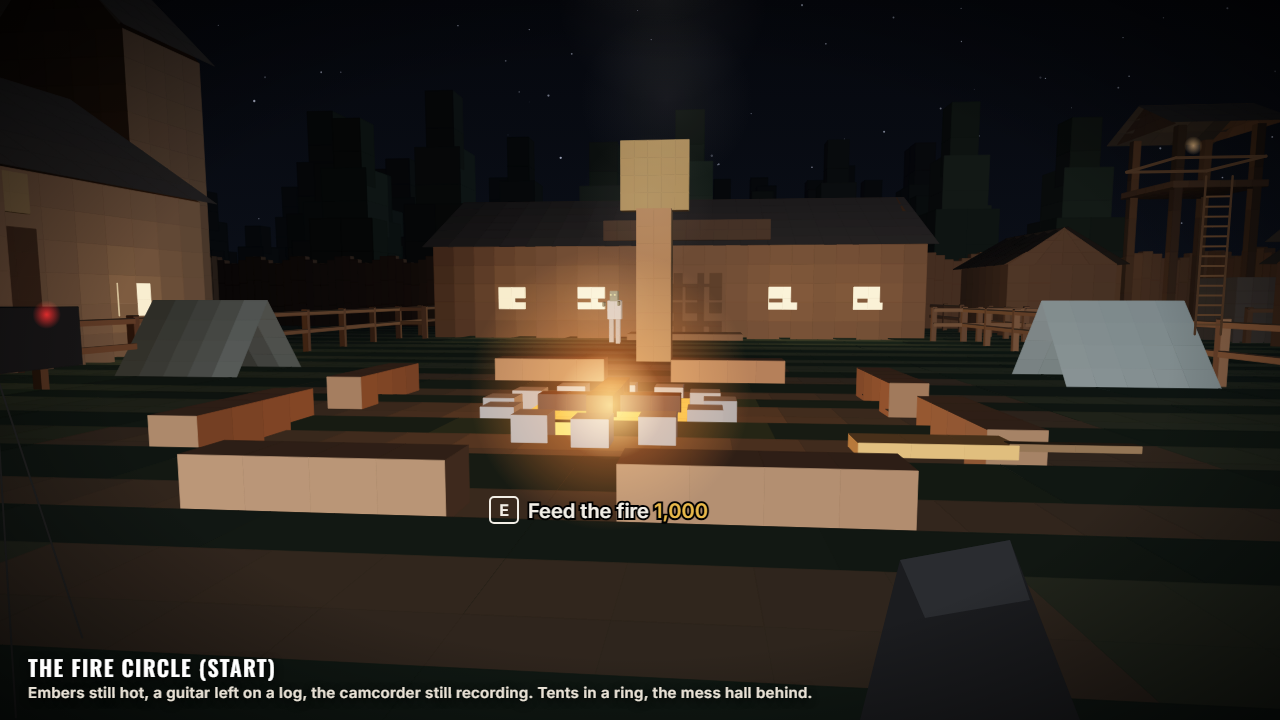
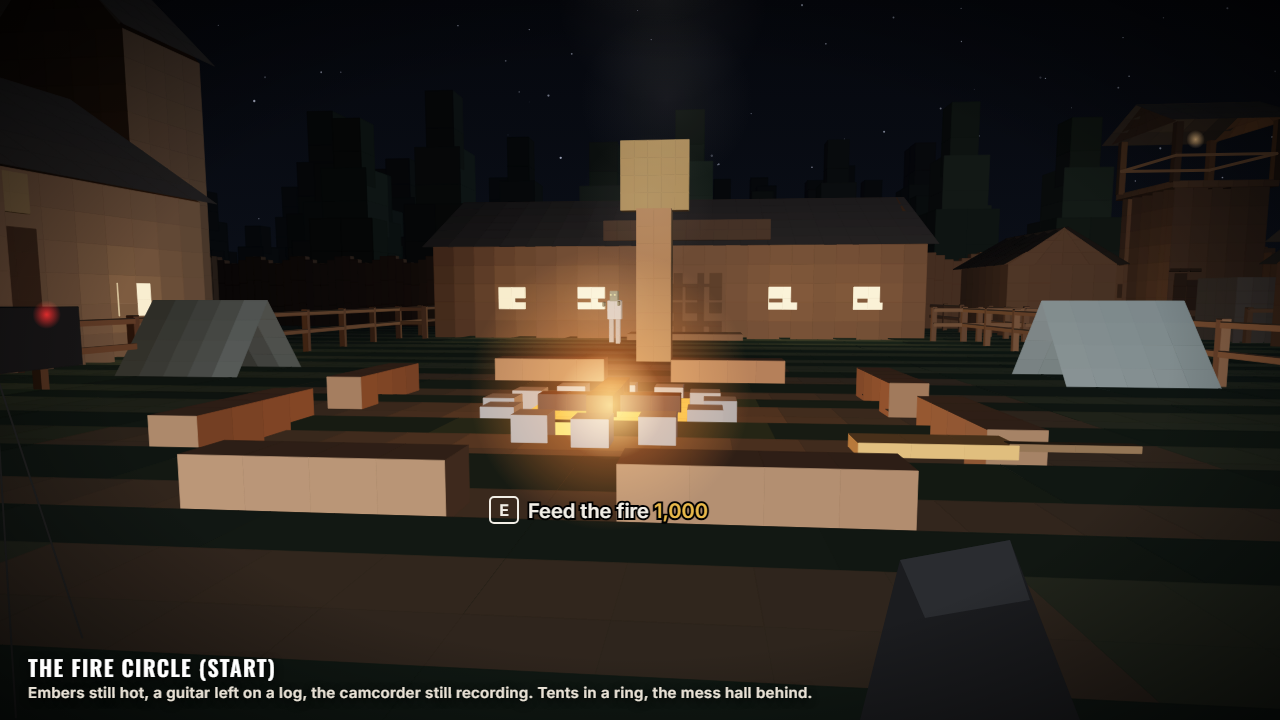
Camp Morrow: enclosed watchtower with stairs and a zombie door
The tower now has stairs inside and a barricaded ground-floor door, and
no ammo at the top. The crossbow wall buy moves to the Leader's cabin.

Changed region(s): [[0.875, 0.1833, 1.0, 0.4278]]

diff --git a/design/campsite.html b/design/campsite.html
@@ -31,7 +31,7 @@ let seed = 11;
 const rnd = () => ((seed = (seed * 16807) % 2147483647) / 2147483647);
 
 // Gaps in the palisade (barricades), as [side, from, to].
-const GAPS = { gate: ['s', 21, 27], woodpile: ['s', 30, 33], sw: ['s', 5, 8], west: ['w', -20, -17], kitchen: ['n', 29, 31], north: ['n', 41.5, 44], jetty: ['e', -19, -16], beach: ['e', -6, -3] };
+const GAPS = { gate: ['s', 21, 27], woodpile: ['s', 30, 33], sw: ['s', 5, 8], west: ['w', -20, -17], kitchen: ['n', 29, 31], north: ['n', 41.5, 44], jetty: ['e', -19, -16], beach: ['e', -6, -3], tower: ['e', -41.2, -39.4] };
 
 function robed(sc, x, y, z, face = 0, lean = 0.2) {
   const shirt = PAL.shirt, pants = PAL.pants;
@@ -195,15 +195,22 @@ function cabins(sc, o = {}) {
 function compound(sc, o = {}) {
   cabin(sc, 37, -41, 41, -36, 2.8, o.lit ? [[41, -38.5, 'e']] : null, { rise: 1.4, alongX: false });
   box(sc, 43, 0, -34.5, 46, 2.2, -32.6, '#3e3a34'); // generator shed
-  // Watchtower: 4 legs, platform at 6 m, rail, small roof, ladder.
-  for (const [x, z] of [[44.5, -41.5], [47.5, -41.5], [44.5, -38.5], [47.5, -38.5]]) box(sc, x - 0.15, 0, z - 0.15, x + 0.15, o.onTop ? 6 : 8.5, z + 0.15, LOG_DARK, { sub: 2 });
-  box(sc, 44.2, 6, -41.8, 47.8, 6.25, -38.2, '#5a3e28', { sub: 0.6 });
-  for (const [a, b] of [[[44.3, -38.3], [47.7, -38.3]], [[44.3, -41.7], [47.7, -41.7]], [[44.3, -41.7], [44.3, -38.3]], [[47.7, -41.7], [47.7, -38.3]]])
-    line3(sc, V(a[0], 7.2, a[1]), V(b[0], 7.2, b[1]), '#4a3322', 3);
-  if (!o.onTop) gable(sc, 44, -42, 48, -38, 8.5, 1.2, '#2a2622');
-  for (let y = 0.4; y < 6; y += 0.4) line3(sc, V(45.4, y, -38.15), V(46.4, y, -38.15), '#5a3e28', 2);
-  line3(sc, V(45.4, 0, -38.15), V(45.4, 6.4, -38.15), '#4a3322', 2.5); line3(sc, V(46.4, 0, -38.15), V(46.4, 6.4, -38.15), '#4a3322', 2.5);
-  if (o.lit) { light(sc, V(46, 7.5, -40), LAMP, 1.2, 4); glow(sc, V(46, 8, -40), LAMP, 0.4, 0.8); }
+  // Watchtower: a log tower with stairs inside. Its ground-floor door (east, outside the palisade) is a barricade.
+  box(sc, 44.4, 0, -42, 44.8, 6, -38.4, LOG, { sub: 0.8 });
+  box(sc, 44.4, 0, -42, 48, 6, -41.6, LOG, { sub: 0.8 });
+  box(sc, 44.4, 0, -38.8, 48, 6, -38.4, LOG, { sub: 0.8 });
+  box(sc, 47.6, 0, -41.6, 48, 6, -41.2, LOG, { sub: 0.8 }); box(sc, 47.6, 0, -39.4, 48, 6, -38.8, LOG, { sub: 0.8 });
+  box(sc, 47.6, 2.9, -41.2, 48, 6, -39.4, LOG, { sub: 0.8 });
+  box(sc, 44.4, 2.6, -38.4, 45.6, 2.7, -38.35, '#2a1d14'); // the players' door from the compound
+  box(sc, 44.6, 0, -38.38, 45.6, 2.5, -38.36, '#2a1d14');
+  box(sc, 44.2, 6, -42.2, 48.2, 6.25, -38.2, '#5a3e28', { sub: 0.6 });
+  box(sc, 45.1, 6.24, -39.7, 46.1, 6.26, -38.7, '#0a0806'); // stair hatch
+  if (o.onTop) { robed(sc, 45.6, 5.0, -39.2, Math.PI / 2, 0.1); light(sc, V(45.6, 6.9, -39.2), MOON, 1, 2); }
+  for (const [x, z] of [[44.3, -42.1], [48.1, -42.1], [44.3, -38.3], [48.1, -38.3]]) box(sc, x - 0.12, 6.25, z - 0.12, x + 0.12, o.onTop ? 7.3 : 8.6, z + 0.12, LOG_DARK, { sub: 2 });
+  for (const [a, b] of [[[44.3, -38.3], [48.1, -38.3]], [[44.3, -42.1], [48.1, -42.1]], [[44.3, -42.1], [44.3, -38.3]], [[48.1, -42.1], [48.1, -38.3]]])
+    line3(sc, V(a[0], 7.3, a[1]), V(b[0], 7.3, b[1]), '#4a3322', 3);
+  if (!o.onTop) gable(sc, 44, -42.4, 48.4, -38, 8.6, 1.2, '#2a2622');
+  if (o.lit) { light(sc, V(46.2, 8, -40.2), LAMP, 1.2, 4); glow(sc, V(46.2, 8.3, -40.2), LAMP, 0.4, 0.8); }
 }
 function fences(sc) {
   // Split-rail fences between zones, with gate gaps (the doors).
@@ -213,10 +220,10 @@ function fences(sc) {
   fence(sc, 36, -32, 36, -35); fence(sc, 36, -38, 36, -42);
   fence(sc, 14, -32, 15, -32); fence(sc, 33, -32, 36, -32);
 }
-function festoons(sc) {
+function festoons(sc, skipTower) {
   // Power on: strings of warm bulbs over every zone.
   const runs = [[[15, 3.2, -32], [24, 5, -16]], [[33, 3.2, -32], [24, 5, -16]], [[24, 5, -16], [14, 3, -4]], [[24, 5, -16], [34, 3, -4]], [[6, 3, -6], [11, 3.5, -12]], [[38, 2.8, -4], [44, 2.8, -26]], [[37, 2.8, -36], [44, 6, -38]]];
-  for (const [a, b] of runs) {
+  for (const [a, b] of skipTower ? runs.slice(0, -1) : runs) {
     const A = V(...a), B = V(...b), n = 8;
     for (let i = 0; i < n; i++) {
       const p = lerp3(A, B, i / n), q = lerp3(A, B, (i + 1) / n);
@@ -270,7 +277,7 @@ function camp(sc, o = {}) {
   cabins(sc, { lit: true }); compound(sc, { lit: !o.onTop, onTop: o.onTop }); lake(sc); road(sc, o);
   // Woodpile in the woodpile gap.
   for (let i = 0; i < 4; i++) box(sc, 30.2, i * 0.3, -1.6 + i * 0.1, 32.8, i * 0.3 + 0.3, -0.5, '#5a3e28', { sub: 0.6 });
-  if (o.power) festoons(sc);
+  if (o.power) festoons(sc, o.onTop);
   // Moon, low in the east over the lake.
   light(sc, V(120, 60, -40), MOON, o.moon ?? 1.4, 200);
   if (o.forest !== false) forest(sc, o.forestOpts ?? {});
@@ -368,8 +375,9 @@ const views = {
     camp(sc, { power: true, onTop: true, forestOpts: { n: 160 } });
     for (const [x, z, f] of [[38, -28, 0.8], [40, -24.5, 0.8], [41.5, -27, 0.6], [44, -30, 1], [30, -20, 0.5], [27.5, -21.5, 0.4], [20, -12, 0.2], [36.5, -21, 0.7]]) robed(sc, x, 0, z, f, 0.25);
     player(sc, 25, 0, -18.5, 1, '#3a6ea5');
-    const cam = camera(V(45.5, 7.7, -39.2), V(28, 0, -15), 760, W, H, 1);
-    return render(sc, cam, crossbowModel() + prompt('Hunting crossbow', '1,500') + vignette(W, H, 0.7)) + caption('The watchtower', 'Six metres up, the whole camp below. One ladder, one at a time.');
+    const cam = camera(V(47.4, 7.8, -41.4), V(30, 0.5, -18), 700, W, H, 1);
+    const ammo = `<g font-family="Oswald" font-weight="600" text-anchor="end" style="paint-order:stroke" stroke="#000" stroke-width="4"><text x="1240" y="660" font-size="44" fill="#f2eee6">4 <tspan font-size="26" fill="#ff5a3a">/ 0</tspan></text><text x="1240" y="690" font-family="Inter" font-size="14" fill="#ff5a3a" stroke-width="3">No ammo up here</text></g>`;
+    return render(sc, cam, gunModel() + ammo + vignette(W, H, 0.7)) + caption('The watchtower', 'The whole camp below, but no ammo up here. Zombies broke the door at the bottom and are on the stairs.');
   },
 
   plan() {
@@ -389,7 +397,7 @@ const views = {
       g += `<rect x="${X(x0)}" y="${Y(z0)}" width="${(x1 - x0) * s}" height="${(z1 - z0) * s}" fill="${c}" fill-opacity=".55"/>`;
     }
     // Buildings.
-    const bld = [[15, -41.6, 33, -33, 'Mess hall'], [3, -26, 11, -14, 'Chapel'], [5, -29, 9, -26, ''], [38, -8, 44, -4, 'Cabin 3'], [38, -16, 44, -12, 'Cabin 2'], [38, -24, 44, -20, 'Cabin 1'], [43, -31, 47.4, -27, 'Boathouse'], [37, -41, 41, -36, ''], [43, -34.5, 46, -32.6, ''], [44.2, -41.8, 47.8, -38.2, '']];
+    const bld = [[15, -41.6, 33, -33, 'Mess hall'], [3, -26, 11, -14, 'Chapel'], [5, -29, 9, -26, ''], [38, -8, 44, -4, 'Cabin 3'], [38, -16, 44, -12, 'Cabin 2'], [38, -24, 44, -20, 'Cabin 1'], [43, -31, 47.4, -27, 'Boathouse'], [37, -41, 41, -36, ''], [43, -34.5, 46, -32.6, ''], [44.4, -42, 48, -38.4, 'Stairs']];
     for (const [x0, z0, x1, z1, n] of bld) g += `<rect x="${X(x0)}" y="${Y(z0)}" width="${(x1 - x0) * s}" height="${(z1 - z0) * s}" fill="#2a2016" stroke="#c8a878" stroke-width="1.5"/>` + (n ? `<text x="${X((x0 + x1) / 2)}" y="${Y((z0 + z1) / 2) + 4}" font-family="Inter" font-size="11" font-weight="600" fill="#e9dcc4" text-anchor="middle">${n}</text>` : '');
     // Palisade with gaps.
     const pal = (x0, z0, x1, z1) => `<line x1="${X(x0)}" y1="${Y(z0)}" x2="${X(x1)}" y2="${Y(z1)}" stroke="#8a6a44" stroke-width="7"/>`;
@@ -427,9 +435,9 @@ const views = {
     g += icon(5, -18, '#4ac0ff', 'Tough Juice', '');
     g += icon(7, -15, '#d0b060', 'Altar', '(secret)');
     g += icon(39, -10, '#e8b84a', 'Barnburner', '1200');
-    g += icon(38, -38.5, '#4ac0ff', 'Quick Hands', '', 'start');
+    g += icon(37.6, -37, '#4ac0ff', 'Quick Hands', '', 'start');
     g += icon(44.5, -33.5, '#ffe060', 'Power', '', 'start');
-    g += icon(46, -40, '#e8b84a', 'Crossbow', '1500', 'end');
+    g += icon(37.6, -40, '#e8b84a', 'Crossbow', '1500', 'start');
     // Zone letters.
     for (const [k, name, cost, x0, z0, x1, z1] of zones) {
       const cx = k === 'A' ? 19 : k === 'C' ? 7 : k === 'D' ? 41 : (x0 + x1) / 2;
@@ -439,7 +447,7 @@ const views = {
     // Zombie routes: arrows from the forest to each barricade.
     const arrow = (x0, z0, x1, z1) => `<line x1="${X(x0)}" y1="${Y(z0)}" x2="${X(x1)}" y2="${Y(z1)}" stroke="#ff5a3a" stroke-width="2" stroke-opacity=".8" marker-end="url(#ah)"/>`;
     g += `<defs><marker id="ah" markerWidth="8" markerHeight="8" refX="6" refY="4" orient="auto"><path d="M0,0 L8,4 L0,8 z" fill="#ff5a3a"/></marker></defs>`;
-    g += arrow(24, 9.5, 24, 1) + arrow(31.5, 6, 31.5, 1) + arrow(6.5, 6, 6.5, 1) + arrow(-9, -18.5, -1, -18.5) + arrow(30, -50, 30, -43) + arrow(42.7, -50, 42.7, -43) + arrow(60, -17.6, 49, -17.6) + arrow(58, -4.5, 49, -4.5);
+    g += arrow(24, 9.5, 24, 1) + arrow(31.5, 6, 31.5, 1) + arrow(6.5, 6, 6.5, 1) + arrow(-9, -18.5, -1, -18.5) + arrow(30, -50, 30, -43) + arrow(42.7, -50, 42.7, -43) + arrow(56, -40.3, 49, -40.3) + arrow(60, -17.6, 49, -17.6) + arrow(58, -4.5, 49, -4.5);
     // Legend and scale.
     const lg = [['#8a6a44', 'Palisade (3.2 m)'], ['#ff5a3a', 'Barricade'], ['#b89a70', 'Fence (1.2 m, shoot over)'], ['#e8b84a', 'Gate (door) and cost']];
     lg.forEach(([c, t], i) => (g += `<rect x="40" y="${60 + i * 26}" width="22" height="6" fill="${c}"/><text x="72" y="${67 + i * 26}" font-family="Inter" font-size="13" fill="#e9e2d6">${t}</text>`));
